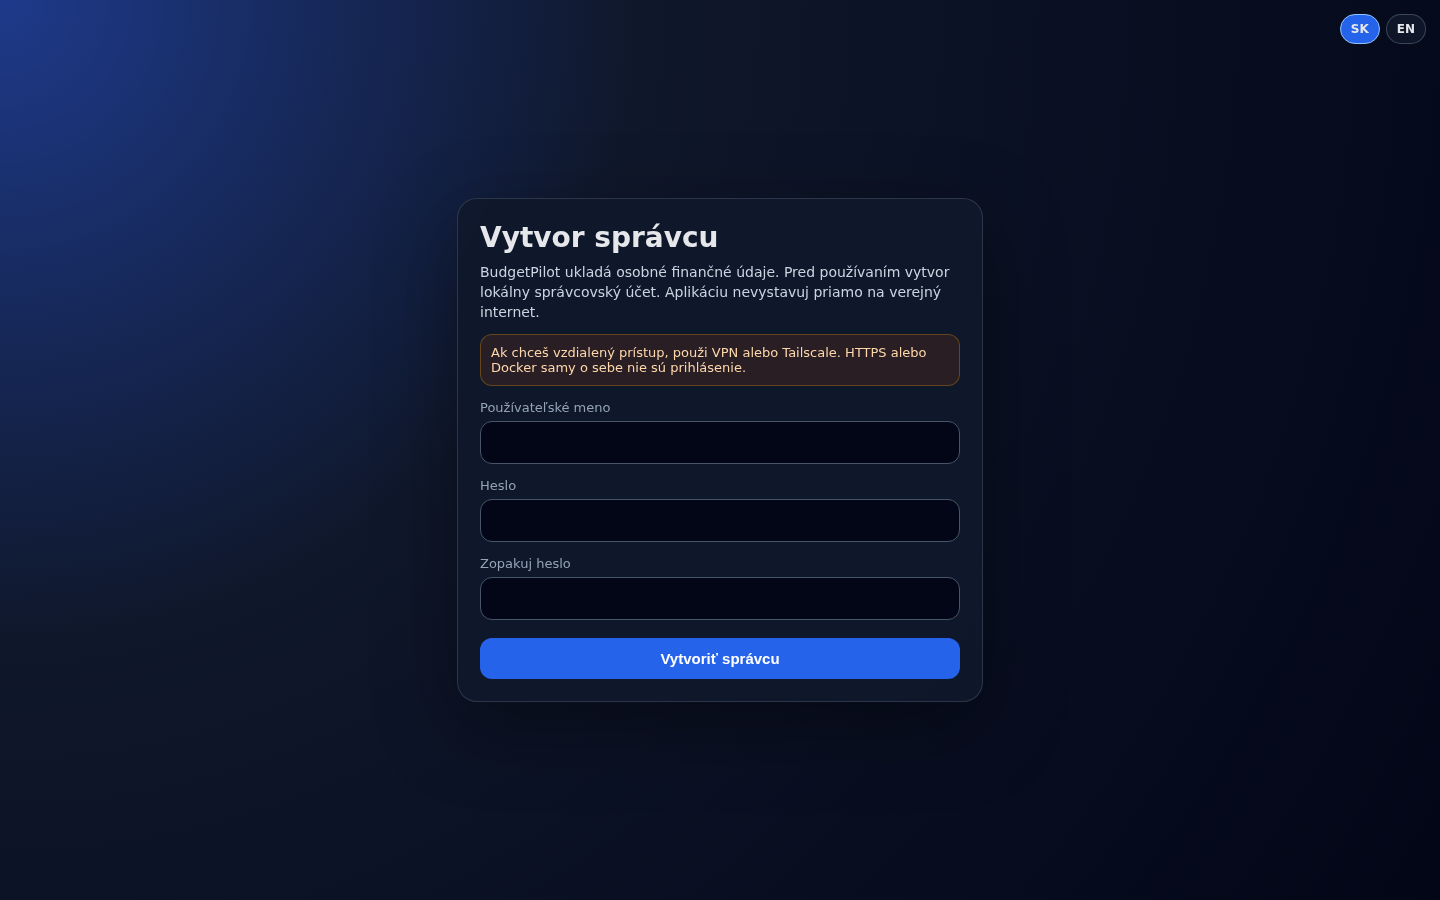
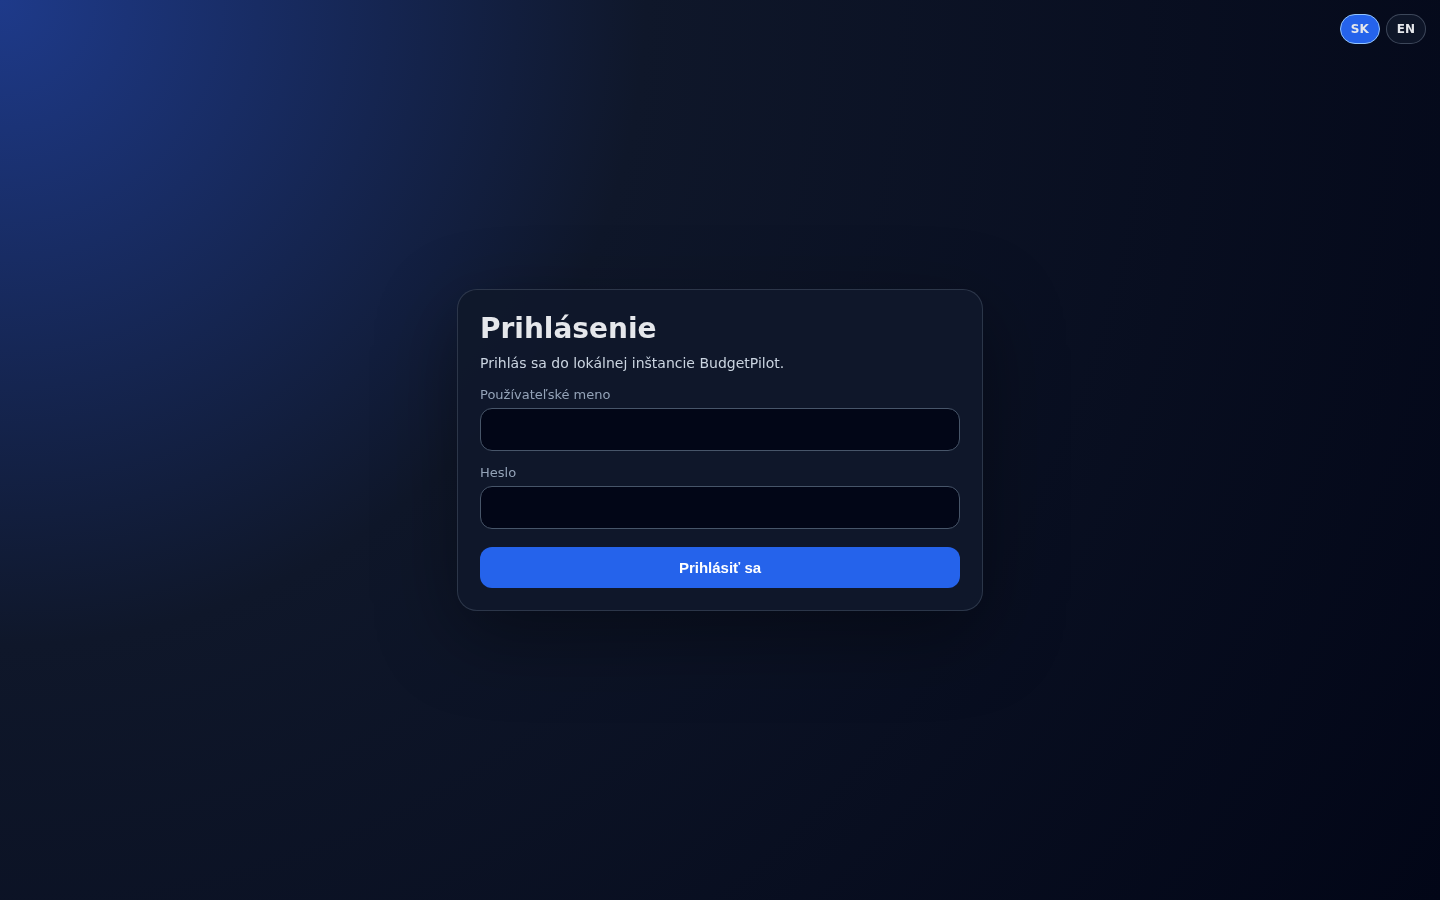
Fix public login screenshot capture

diff --git a/scripts/capture_public_screenshots.js b/scripts/capture_public_screenshots.js
@@ -49,9 +49,6 @@ async function main() {
     const browser = await chromium.launch();
     const page = await browser.newPage({ viewport: { width: 1440, height: 900 } });
 
-    await page.goto(`${BASE_URL}/login`);
-    await page.screenshot({ path: path.join(OUT, "login-page.png"), fullPage: true });
-
     await page.goto(`${BASE_URL}/auth/setup`);
     await page.screenshot({ path: path.join(OUT, "first-run-admin-setup.png"), fullPage: true });
     await page.locator('input[name="username"]').fill(USER);
@@ -70,6 +67,14 @@ async function main() {
     await page.locator('input[name="pay_amount_2"]').fill("120");
     await page.locator('input[name="pay_day_2"]').fill("20");
     await page.locator('form').last().locator('button[type="submit"]').click();
+    await page.waitForURL(/\/($|\?)/);
+
+    await page.goto(`${BASE_URL}/logout`);
+    await page.waitForURL(/\/login/);
+    await page.screenshot({ path: path.join(OUT, "login-page.png"), fullPage: true });
+    await page.locator('input[name="username"]').fill(USER);
+    await page.locator('input[name="password"]').fill(PASSWORD);
+    await page.locator('button[type="submit"]').click();
     await page.waitForURL(/\/($|\?)/);
 
     await page.goto(`${BASE_URL}/language/sk?next=/`);